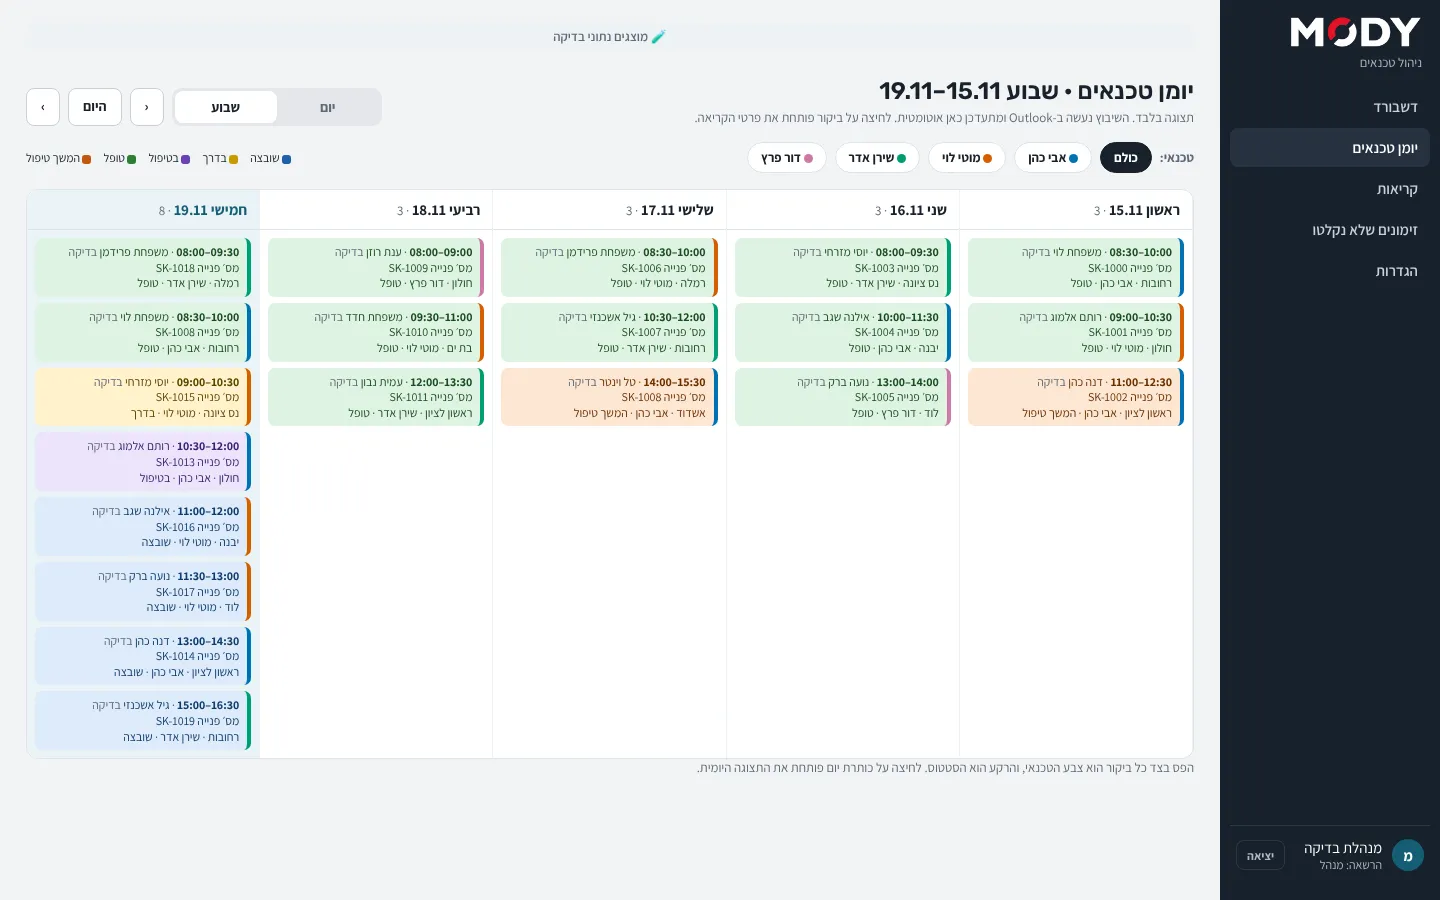
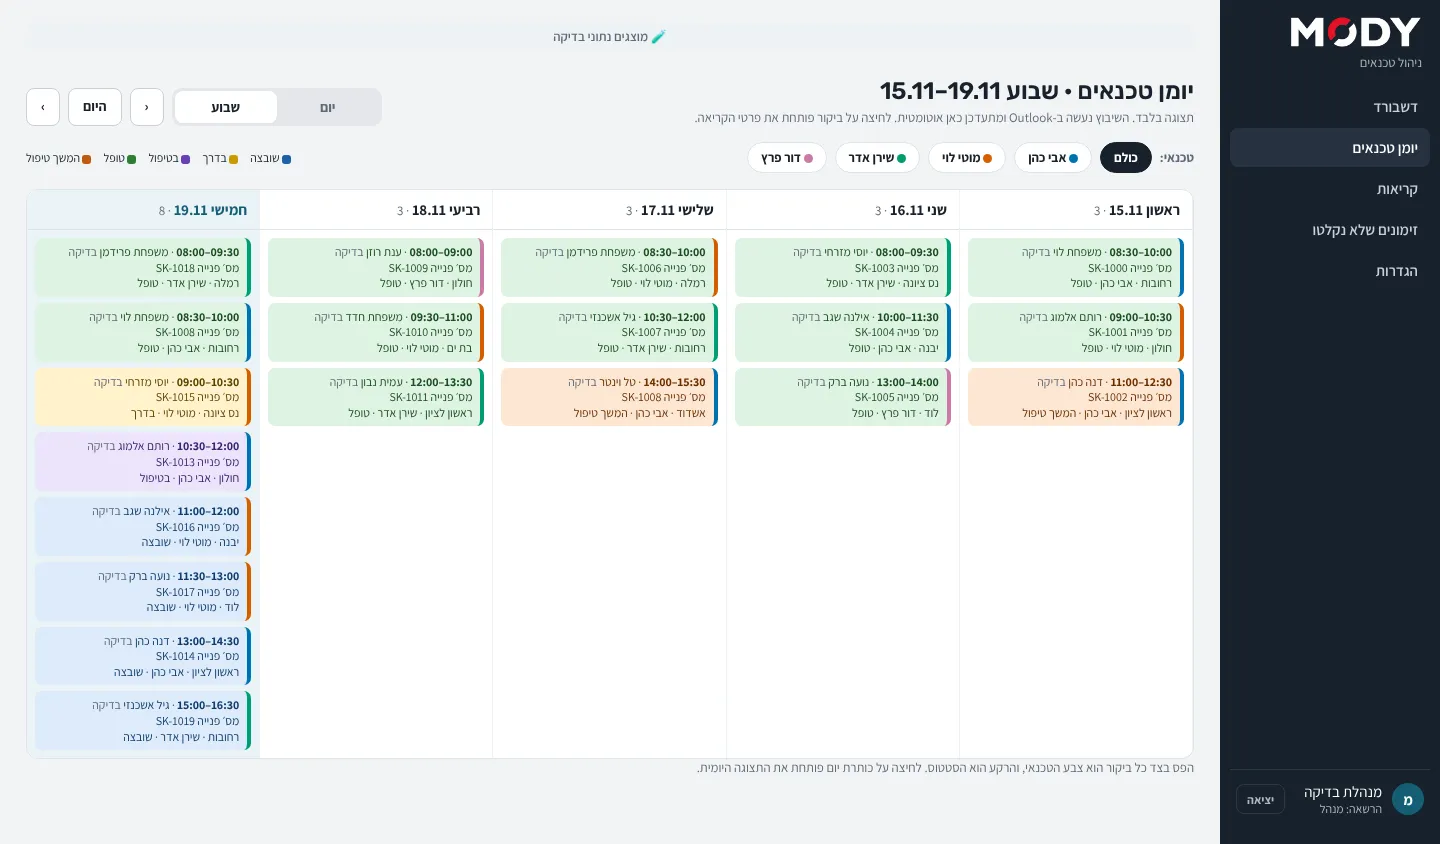
Calendar toolbar: week range through TimeRange (start-end)
Claude-Session: https://claude.ai/code/session_011xmGFSYArFUjcD6VdGUhh6

diff --git a/components/office/CalendarToolbar.tsx b/components/office/CalendarToolbar.tsx
@@ -1,5 +1,20 @@
 import Link from "next/link";
+import { TimeRange } from "@/components/ui/TimeRange";
 import { CalendarLegend } from "./CalendarParts";
+
+const WEEK_TITLE = /^(.*?)(\d\d\.\d\d)–(\d\d\.\d\d)$/;
+
+/** A "שבוע 15.11–19.11" title: the range goes through TimeRange (start–end, design-rules), the rest stays text. */
+function PeriodTitle({ title }: { title: string }) {
+  const m = WEEK_TITLE.exec(title);
+  if (!m) return <>{title}</>;
+  return (
+    <>
+      {m[1]}
+      <TimeRange start={m[2] ?? ""} end={m[3] ?? ""} />
+    </>
+  );
+}
 
 // Title row and filter row of the office "יומן טכנאים" (docs/demo.html offCal() L794-801): the
 // title with the shown period, the "תצוגה בלבד" note, the יום / שבוע / חודש segments, previous /
@@ -43,7 +58,9 @@ export function CalendarToolbar({
     <>
       <div className="ptitle">
         <div>
-          <h1>יומן טכנאים · {title}</h1>
+          <h1>
+            יומן טכנאים · <PeriodTitle title={title} />
+          </h1>
           <div className="sub">תצוגה בלבד. השיבוץ נעשה ב-Outlook ומתעדכן כאן אוטומטית. לחיצה על ביקור פותחת את פרטי הקריאה.</div>
         </div>
         <div className="ocal-actions">
